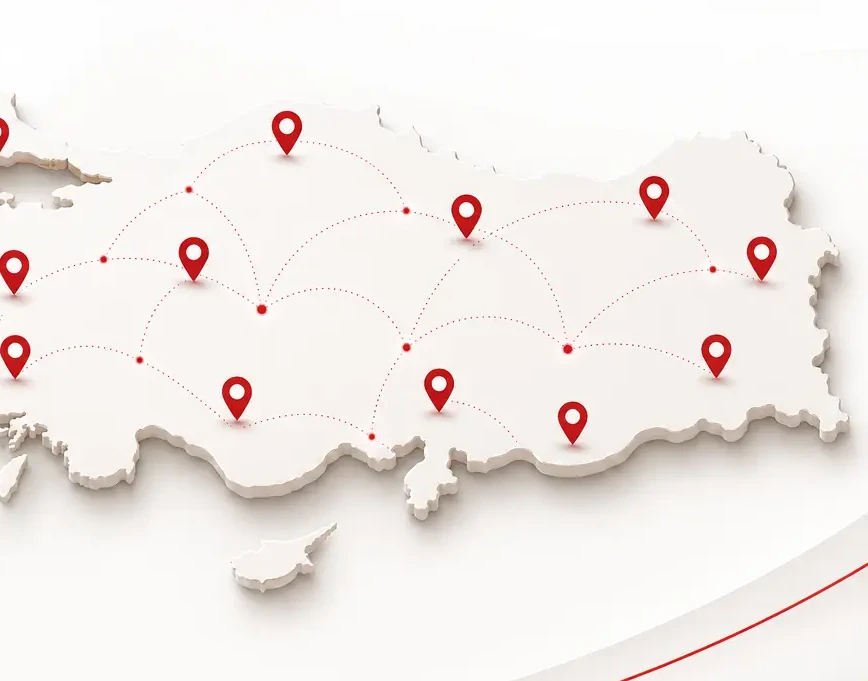
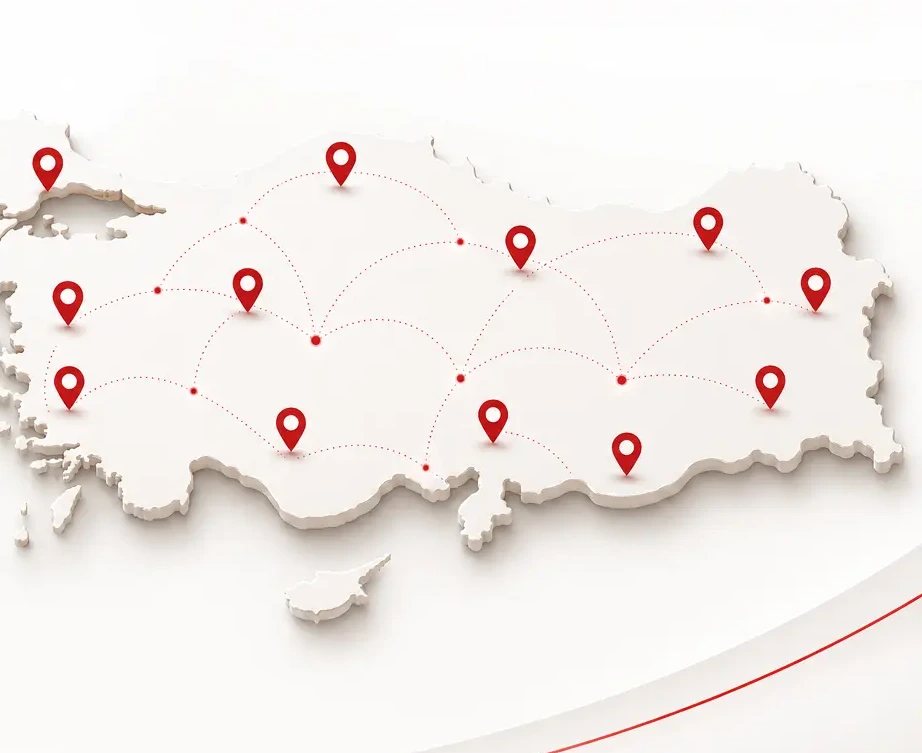
auto-commit for 33913523-426e-4630-ba5e-8090dbcb51f7

diff --git a/frontend/src/components/BayiOl.jsx b/frontend/src/components/BayiOl.jsx
@@ -2,112 +2,110 @@ import React from 'react';
 import { motion } from 'framer-motion';
 import { Footprints, ArrowRight } from 'lucide-react';
 
-// WhatsApp: tıklanınca otomatik "Bayi olmak istiyorum" mesajı
+// Buton -> WhatsApp: otomatik bayilik mesajı
 const WHATSAPP_URL =
-  'https://wa.me/905054000326?text=' + encodeURIComponent('Bayi olmak istiyorum');
+  'https://wa.me/905054000326?text=' +
+  encodeURIComponent('Merhaba Pedizone bayiliği hakkında bilgi almak istiyorum');
+
+const RED = '#C0392B';
+const CHARCOAL = '#2C3E50';
 
 const BayiOl = () => {
   return (
     <section
       id="bayi-ol"
       data-testid="bayi-ol-section"
-      className="relative w-full overflow-hidden"
-      style={{ backgroundColor: '#faf8f6' }}
+      className="relative w-full overflow-hidden py-16 md:py-20"
+      style={{ background: 'linear-gradient(135deg, #F8F9FA 0%, #FFFFFF 50%, #F8F9FA 100%)' }}
     >
-      {/* Sağ üst kırmızı diyagonal aksan (sadece geniş ekran) */}
+      {/* Soluk kırmızı dekoratif daireler */}
       <div
         aria-hidden="true"
-        className="pointer-events-none absolute inset-y-0 right-0 hidden w-2/5 lg:block"
-        style={{
-          background: 'linear-gradient(135deg, #e11d2a 0%, #b91c1c 100%)',
-          clipPath: 'polygon(38% 0, 100% 0, 100% 100%, 12% 100%)',
-          opacity: 0.97,
-        }}
+        className="pointer-events-none absolute -top-24 -right-24 h-[400px] w-[400px] rounded-full"
+        style={{ backgroundColor: RED, opacity: 0.06 }}
       />
-      {/* Nokta deseni (sağ üst) */}
       <div
         aria-hidden="true"
-        className="pointer-events-none absolute top-6 right-8 hidden h-28 w-40 opacity-40 lg:block"
-        style={{
-          backgroundImage: 'radial-gradient(rgba(255,255,255,0.7) 1.5px, transparent 1.5px)',
-          backgroundSize: '14px 14px',
-        }}
-      />
-      {/* İnce kırmızı kavis (alt) */}
-      <div
-        aria-hidden="true"
-        className="pointer-events-none absolute -bottom-24 left-0 right-0 h-40"
-        style={{
-          borderTop: '2px solid rgba(220,38,38,0.35)',
-          borderRadius: '100% 100% 0 0 / 100% 100% 0 0',
-        }}
+        className="pointer-events-none absolute -bottom-20 -left-20 h-[300px] w-[300px] rounded-full"
+        style={{ backgroundColor: RED, opacity: 0.04 }}
       />
 
-      <div className="container relative z-10 mx-auto px-4">
-        <div className="grid items-center gap-8 py-12 md:py-16 lg:grid-cols-2">
-          {/* Sol: metin */}
-          <motion.div
-            initial={{ opacity: 0, x: -30 }}
-            whileInView={{ opacity: 1, x: 0 }}
-            viewport={{ once: true, amount: 0.4 }}
-            transition={{ duration: 0.6, ease: [0.16, 1, 0.3, 1] }}
+      <div className="relative z-10 mx-auto grid max-w-[1200px] grid-cols-1 items-center gap-10 px-6 md:px-10 lg:grid-cols-[1fr_1.2fr] lg:gap-[60px]">
+        {/* Sol: metin */}
+        <motion.div
+          initial={{ opacity: 0, x: -30 }}
+          whileInView={{ opacity: 1, x: 0 }}
+          viewport={{ once: true, amount: 0.4 }}
+          transition={{ duration: 0.6, ease: [0.16, 1, 0.3, 1] }}
+        >
+          {/* Logo */}
+          <div className="mb-6 flex items-center gap-2">
+            <Footprints className="h-7 w-7" style={{ color: RED }} />
+            <span className="text-2xl font-extrabold tracking-tight" style={{ color: RED }}>
+              PediZone<sup className="text-[0.5em] align-super">®</sup>
+            </span>
+            <span className="ml-1 hidden text-[10px] font-semibold uppercase tracking-[0.2em] text-gray-500 sm:inline">
+              Ayak Sağlığı Ürünleri
+            </span>
+          </div>
+
+          {/* Başlık */}
+          <h2 className="font-extrabold uppercase leading-[1.12] tracking-tight text-4xl sm:text-5xl">
+            <span style={{ color: RED }}>Bayimiz</span>{' '}
+            <span style={{ color: CHARCOAL }}>Olmak İster Misiniz?</span>
+          </h2>
+
+          {/* Kırmızı çizgi */}
+          <div className="mt-5 h-1 w-12 rounded-full" style={{ backgroundColor: RED }} />
+
+          {/* Alt başlık */}
+          <p className="mt-5 text-lg" style={{ color: '#555' }}>
+            Şehrinizde <strong style={{ color: RED }}>PediZone</strong> gücüyle büyüyün.
+          </p>
+
+          {/* Buton -> WhatsApp */}
+          <a
+            href={WHATSAPP_URL}
+            target="_blank"
+            rel="noopener noreferrer"
+            data-testid="bayi-ol-cta"
+            aria-label="Bayilik için WhatsApp ile başvur"
+            className="group mt-8 inline-flex w-full items-center justify-center gap-2 rounded-lg px-8 py-3.5 text-[15px] font-bold uppercase tracking-wide text-white transition-all duration-300 hover:-translate-y-0.5 sm:w-auto"
+            style={{ backgroundColor: RED, boxShadow: '0 4px 15px rgba(192,57,43,0.3)' }}
+            onMouseEnter={(e) => (e.currentTarget.style.backgroundColor = '#A0302B')}
+            onMouseLeave={(e) => (e.currentTarget.style.backgroundColor = RED)}
           >
-            {/* Logo */}
-            <div className="mb-6 flex items-center gap-2">
-              <Footprints className="h-7 w-7 text-red-600" />
-              <span className="text-2xl font-extrabold tracking-tight text-red-600">
-                PediZone<sup className="text-[0.5em] align-super">®</sup>
-              </span>
-              <span className="ml-1 hidden text-[10px] font-semibold uppercase tracking-[0.2em] text-gray-500 sm:inline">
-                Ayak Sağlığı Ürünleri
-              </span>
-            </div>
+            Hemen Başvur
+            <ArrowRight className="h-5 w-5 transition-transform duration-300 group-hover:translate-x-1" />
+          </a>
+        </motion.div>
 
-            {/* Başlık */}
-            <h2 className="font-extrabold uppercase leading-[0.98] tracking-tight">
-              <span className="block text-5xl text-red-600 sm:text-6xl">Bayimiz</span>
-              <span className="block text-3xl text-gray-900 sm:text-4xl">Olmak İster</span>
-              <span className="block text-3xl text-gray-900 sm:text-4xl">Misiniz?</span>
-            </h2>
+        {/* Sağ: Türkiye haritası (tam görünür) */}
+        <motion.div
+          initial={{ opacity: 0, scale: 0.94 }}
+          whileInView={{ opacity: 1, scale: 1 }}
+          viewport={{ once: true, amount: 0.3 }}
+          transition={{ duration: 0.7, ease: [0.16, 1, 0.3, 1] }}
+          className="mx-auto w-full max-w-[560px] lg:max-w-none"
+        >
+          <img
+            src="/bayi-map.webp"
+            alt="PediZone Bayilik Ağı - Türkiye Geneli"
+            className="w-full h-auto object-contain drop-shadow-xl"
+            loading="lazy"
+          />
+        </motion.div>
+      </div>
 
-            {/* Kırmızı çizgi */}
-            <div className="mt-5 h-1 w-16 rounded-full bg-red-600" />
-
-            {/* Alt başlık */}
-            <p className="mt-5 text-lg text-gray-600">
-              Şehrinizde <span className="font-semibold text-red-600">PediZone</span> gücüyle büyüyün.
-            </p>
-
-            {/* Buton -> WhatsApp */}
-            <a
-              href={WHATSAPP_URL}
-              target="_blank"
-              rel="noopener noreferrer"
-              data-testid="bayi-ol-cta"
-              aria-label="Bayi olmak istiyorum - WhatsApp ile başvur"
-              className="group mt-7 inline-flex items-center gap-3 rounded-lg bg-red-600 px-8 py-4 text-base font-bold uppercase tracking-wide text-white shadow-lg shadow-red-600/30 transition-all duration-300 hover:-translate-y-0.5 hover:bg-red-700 hover:shadow-xl hover:shadow-red-600/40"
-            >
-              Hemen Başvur
-              <ArrowRight className="h-5 w-5 transition-transform duration-300 group-hover:translate-x-1" />
-            </a>
-          </motion.div>
-
-          {/* Sağ: Türkiye haritası */}
-          <motion.div
-            initial={{ opacity: 0, scale: 0.94 }}
-            whileInView={{ opacity: 1, scale: 1 }}
-            viewport={{ once: true, amount: 0.3 }}
-            transition={{ duration: 0.7, ease: [0.16, 1, 0.3, 1] }}
-            className="relative flex justify-center lg:justify-end"
-          >
-            <img
-              src="/bayi-map.webp"
-              alt="PediZone Türkiye bayi ağı haritası"
-              className="w-full max-w-xl drop-shadow-xl"
-              loading="lazy"
-            />
-          </motion.div>
-        </div>
+      {/* Dekoratif alt dalga */}
+      <div aria-hidden="true" className="pointer-events-none absolute bottom-0 left-0 h-16 w-full opacity-50">
+        <svg viewBox="0 0 1440 120" fill="none" xmlns="http://www.w3.org/2000/svg" preserveAspectRatio="none" className="h-full w-full">
+          <path
+            d="M0 120L60 105C120 90 240 60 360 52.5C480 45 600 60 720 67.5C840 75 960 75 1080 67.5C1200 60 1320 45 1380 37.5L1440 30V120H1380C1320 120 1200 120 1080 120C960 120 840 120 720 120C600 120 480 120 360 120C240 120 120 120 60 120H0Z"
+            fill={RED}
+            opacity="0.08"
+          />
+        </svg>
       </div>
     </section>
   );

diff --git a/frontend/src/pages/Home.jsx b/frontend/src/pages/Home.jsx
@@ -240,11 +240,11 @@ const Home = () => {
                 🏆 Podologların Tavsiyesi
               </Badge>
               
-              <h1 className="text-4xl lg:text-5xl xl:text-6xl font-bold text-gray-900 leading-tight mb-0">
+              <h1 className="text-3xl sm:text-4xl lg:text-5xl xl:text-6xl font-bold text-gray-900 leading-tight mb-0">
                 Profesyonel Ayak Bakım Çözümleri
               </h1>
               
-              <h2 className="text-3xl lg:text-4xl xl:text-5xl font-bold text-red-600 mb-0">
+              <h2 className="text-2xl sm:text-3xl lg:text-4xl xl:text-5xl font-bold text-red-600 mb-0">
                 Pedizone<span style={{ fontSize: '0.5em', verticalAlign: 'super' }}>®</span>
               </h2>
               

diff --git a/frontend/src/components/MarketplacesSection.jsx b/frontend/src/components/MarketplacesSection.jsx
@@ -137,7 +137,11 @@ const MarketplacesSection = () => {
                 <img
                   src={m.logo}
                   alt={`${m.name} logo`}
-                  className="max-h-11 w-auto max-w-[70%] object-contain transition-transform duration-300 group-hover:scale-105"
+                  className={
+                    m.boxed
+                      ? 'h-16 w-16 rounded-2xl object-cover shadow-sm transition-transform duration-300 group-hover:scale-105'
+                      : 'max-h-11 w-auto max-w-[70%] object-contain transition-transform duration-300 group-hover:scale-105'
+                  }
                   loading="lazy"
                 />
               </div>

diff --git a/frontend/src/data/marketplaces.js b/frontend/src/data/marketplaces.js
@@ -3,10 +3,11 @@ export const marketplaces = [
   {
     id: 'trendyol',
     name: 'Trendyol',
-    logo: '/marketplaces/trendyol.svg',
+    logo: '/marketplaces/trendyol.png',
     url: 'https://www.trendyol.com/sr?mid=1114633&id=949004162%2C974106929%2C974407501%2C993719944&os=1',
     accent: '#F27A1A',
-    tint: 'rgba(242,122,26,0.10)',
+    tint: 'rgba(0,0,0,0.04)',
+    boxed: true,
   },
   {
     id: 'hepsiburada',
